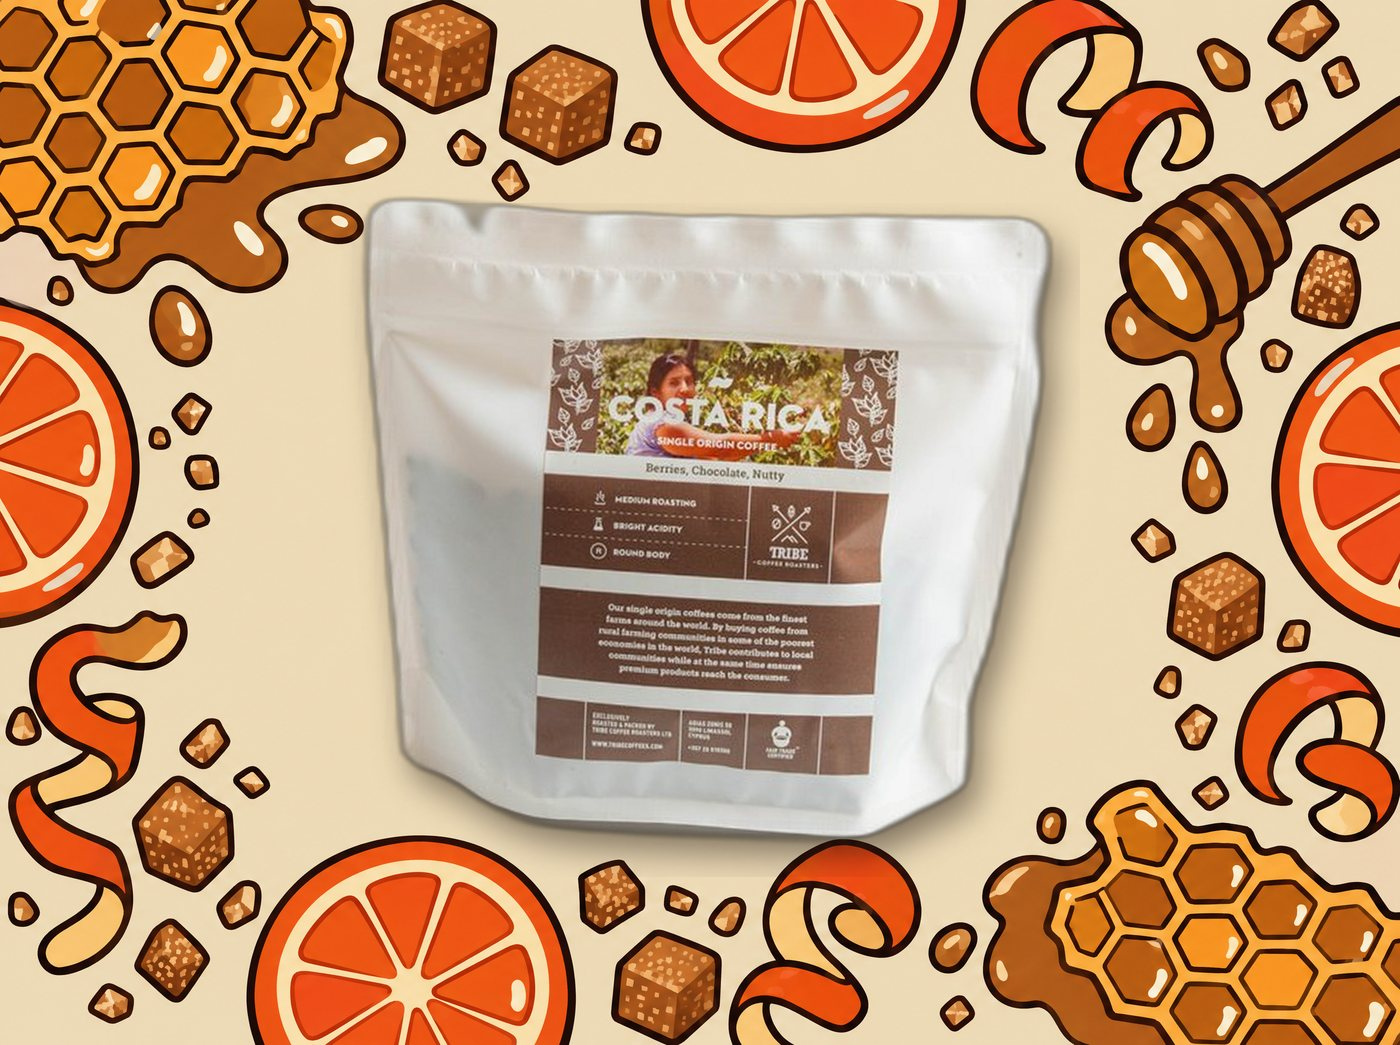
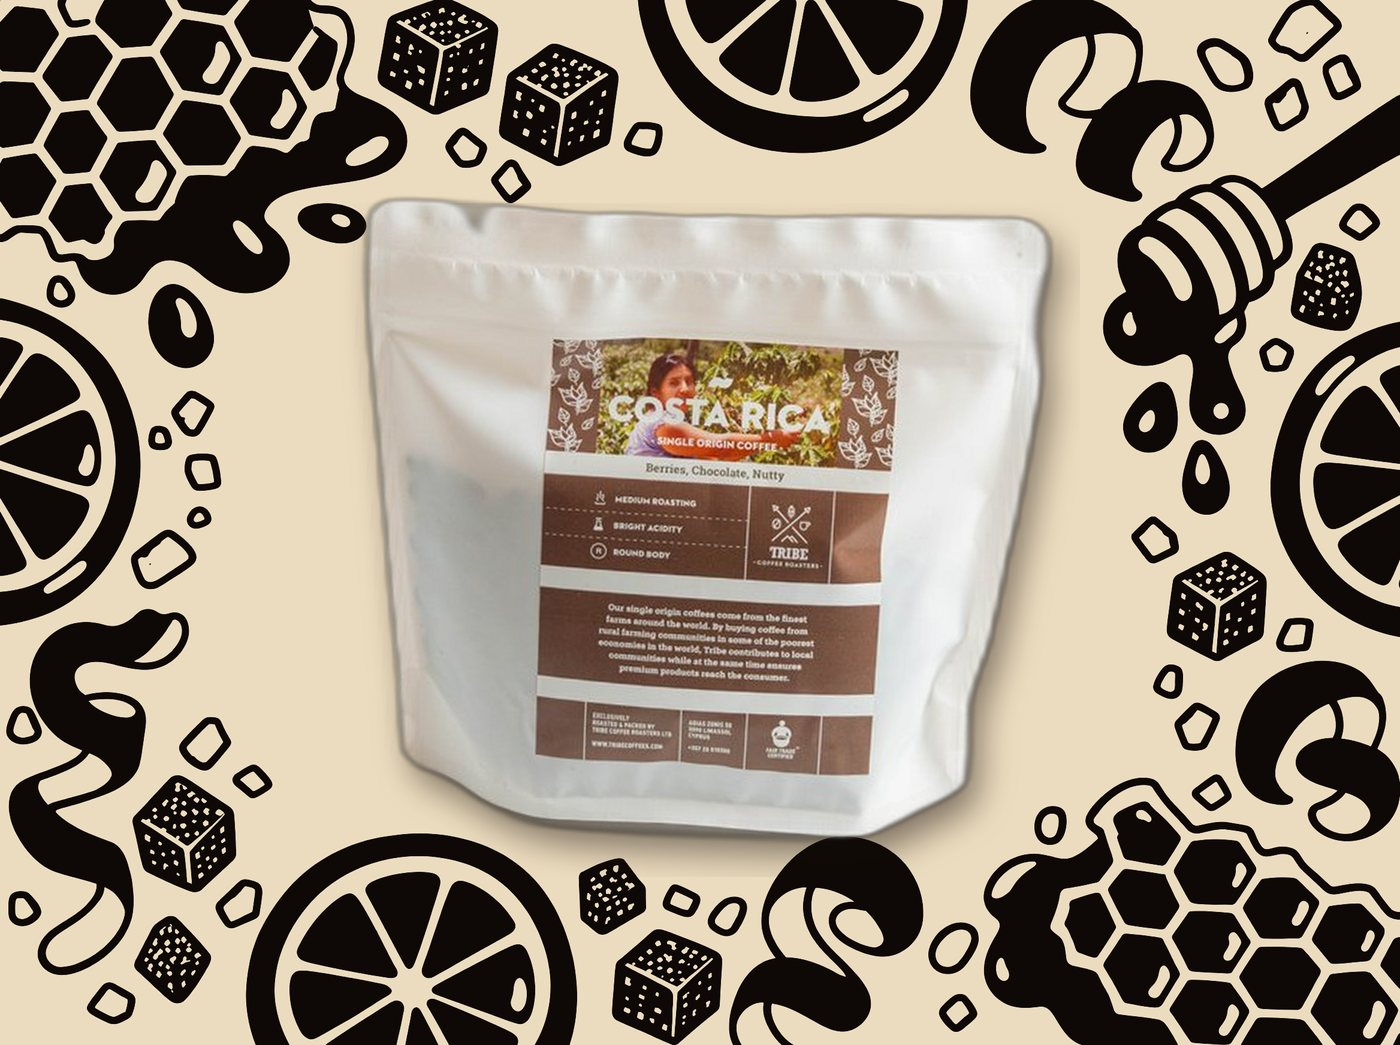
Team portraits for Our People; B&W as the only image set, switch removed; hero crew reach the bottom edge; tablet hero rebalanced; OUR STORY letters rise in

diff --git a/index.html b/index.html
@@ -35,7 +35,7 @@
         <span class="sr-only">Tribe Coffee Roasters: specialty coffee sourced from origin and roasted in Limassol</span>
       </h1>
 
-      <img class="hero__art" src="assets/illustrations-mono/hero-crew.webp" alt="Two grinning Tribe roasters: one makes a peace sign with a V60 in hand, the other hugs a bag of beans" width="1800" height="1169">
+      <img class="hero__art" src="assets/illustrations/hero-crew.webp" alt="Two grinning Tribe roasters: one makes a peace sign with a V60 in hand, the other hugs a bag of beans" width="1800" height="1132">
 
       <nav class="hero__foot" aria-label="Elsewhere">
         <a class="tag" href="story.html">Our story</a>
@@ -50,17 +50,17 @@
       <p class="eyebrow">What we do</p>
       <ol class="steps__list">
         <li class="step">
-          <img class="step__art" src="assets/illustrations-mono/source-cherries.webp" alt="Hands picking ripe coffee cherries from a branch" width="1400" height="1065" loading="lazy">
+          <img class="step__art" src="assets/illustrations/source-cherries.webp" alt="Hands picking ripe coffee cherries from a branch" width="1400" height="1065" loading="lazy">
           <h2 class="step__word">Source</h2>
           <p>We buy green coffee from <span class="marked">farms we trust<svg class="mark mark--under hand-mark" viewBox="0 0 200 16" preserveAspectRatio="none" aria-hidden="true"><path pathLength="1" d="M3 10C40 3 78 14 116 8S176 4 197 9"/></svg></span> in Brazil, Ethiopia, Costa Rica and beyond.</p>
         </li>
         <li class="step">
-          <img class="step__art" src="assets/illustrations-mono/roast-drum.webp" alt="A drum coffee roaster with fresh beans in its cooling tray" width="1172" height="1400" loading="lazy">
+          <img class="step__art" src="assets/illustrations/roast-drum.webp" alt="A drum coffee roaster with fresh beans in its cooling tray" width="1172" height="1400" loading="lazy">
           <h2 class="step__word">Roast</h2>
           <p>Small batches, roasted at our roastery in <span class="marked">Limassol<svg class="mark mark--under hand-mark" viewBox="0 0 200 16" preserveAspectRatio="none" aria-hidden="true"><path pathLength="1" d="M3 10C40 3 78 14 116 8S176 4 197 9"/></svg></span>.</p>
         </li>
         <li class="step">
-          <img class="step__art" src="assets/illustrations-mono/pour-v60.webp" alt="A kettle pouring water into a V60 over a glass server" width="959" height="1400" loading="lazy">
+          <img class="step__art" src="assets/illustrations/pour-v60.webp" alt="A kettle pouring water into a V60 over a glass server" width="959" height="1400" loading="lazy">
           <h2 class="step__word">Pour</h2>
           <p>Fresh beans for coffee shops, restaurants and offices, and <span class="marked">bags for your kitchen<svg class="mark mark--under hand-mark" viewBox="0 0 200 16" preserveAspectRatio="none" aria-hidden="true"><path pathLength="1" d="M3 10C40 3 78 14 116 8S176 4 197 9"/></svg></span>.</p>
           <p class="hand step__aside">(the fun part)</p>
@@ -81,7 +81,7 @@
           <div class="bean__panel">
             <button class="bean__open" type="button" aria-label="Open details"></button>
             <div class="bean__bar"><span>01</span><span class="bean__grip"></span><span>250g · 1kg</span></div>
-            <img class="bean__art" src="assets/products-mono/brazil.jpg" alt="Tribe Brazil coffee bag" width="1400" height="1045" loading="lazy">
+            <img class="bean__art" src="assets/products/brazil.jpg" alt="Tribe Brazil coffee bag" width="1400" height="1045" loading="lazy">
             <div class="bean__foot">
               <h3 class="bean__name">Brazil</h3>
               <svg class="hand-mark scribble" viewBox="0 0 200 16" preserveAspectRatio="none" aria-hidden="true"><path pathLength="1" d="M3 10C40 3 78 14 116 8S176 4 197 9"/></svg>
@@ -95,7 +95,7 @@
           <div class="bean__panel">
             <button class="bean__open" type="button" aria-label="Open details"></button>
             <div class="bean__bar"><span>02</span><span class="bean__grip"></span><span>250g · 1kg</span></div>
-            <img class="bean__art" src="assets/products-mono/ethiopia.jpg" alt="Tribe Ethiopia coffee bag" width="1400" height="1045" loading="lazy">
+            <img class="bean__art" src="assets/products/ethiopia.jpg" alt="Tribe Ethiopia coffee bag" width="1400" height="1045" loading="lazy">
             <div class="bean__foot">
               <h3 class="bean__name">Ethiopia</h3>
               <p class="bean__notes">Jasmine · bergamot · citrus</p>
@@ -108,7 +108,7 @@
           <div class="bean__panel">
             <button class="bean__open" type="button" aria-label="Open details"></button>
             <div class="bean__bar"><span>03</span><span class="bean__grip"></span><span>250g</span></div>
-            <img class="bean__art" src="assets/products-mono/costa-rica.jpg" alt="Tribe Costa Rica coffee bag" width="1400" height="1045" loading="lazy">
+            <img class="bean__art" src="assets/products/costa-rica.jpg" alt="Tribe Costa Rica coffee bag" width="1400" height="1045" loading="lazy">
             <div class="bean__foot">
               <h3 class="bean__name">Costa Rica</h3>
               <p class="bean__notes">Honey · brown sugar · orange</p>
@@ -121,7 +121,7 @@
           <div class="bean__panel">
             <button class="bean__open" type="button" aria-label="Open details"></button>
             <div class="bean__bar"><span>04</span><span class="bean__grip"></span><span>250g · 1kg</span></div>
-            <img class="bean__art" src="assets/products-mono/excelencia.jpg" alt="Tribe Excelencia coffee bag" width="1400" height="1045" loading="lazy">
+            <img class="bean__art" src="assets/products/excelencia.jpg" alt="Tribe Excelencia coffee bag" width="1400" height="1045" loading="lazy">
             <div class="bean__foot">
               <h3 class="bean__name">Excelencia</h3>
               <p class="bean__notes">Caramel · red fruit · cocoa</p>
@@ -147,7 +147,7 @@
           <div class="bean__panel">
             <button class="bean__open" type="button" aria-label="Open details"></button>
             <div class="bean__bar"><span>06</span><span class="bean__grip"></span><span>250g</span></div>
-            <img class="bean__art" src="assets/products-mono/decaf.jpg" alt="Tribe Decaf coffee bag" width="1400" height="1045" loading="lazy">
+            <img class="bean__art" src="assets/products/decaf.jpg" alt="Tribe Decaf coffee bag" width="1400" height="1045" loading="lazy">
             <div class="bean__foot">
               <h3 class="bean__name">Decaf</h3>
               <p class="bean__notes">All the flavour, none of the jitters</p>
@@ -170,7 +170,7 @@
         <article class="buy__card">
           <p class="tag tag--quiet">Wholesale · B2B</p>
           <h3 class="buy__title">For your café</h3>
-          <img class="buy__art" src="assets/illustrations-mono/espresso-machine.webp" alt="An orange two-group espresso machine pulling two shots" width="1400" height="1267" loading="lazy">
+          <img class="buy__art" src="assets/illustrations/espresso-machine.webp" alt="An orange two-group espresso machine pulling two shots" width="1400" height="1267" loading="lazy">
           <div class="buy__body">
             <p>We supply coffee shops, restaurants and offices with freshly roasted beans. Tell us about your place and we'll find <span class="marked">the right coffee<svg class="mark mark--under hand-mark" viewBox="0 0 200 16" preserveAspectRatio="none" aria-hidden="true"><path pathLength="1" d="M3 10C40 3 78 14 116 8S176 4 197 9"/></svg></span> for it.</p>
             <!-- TODO: real wholesale email -->
@@ -184,7 +184,7 @@
         <article class="buy__card">
           <p class="tag tag--quiet">At home · B2C</p>
           <h3 class="buy__title">For your kitchen</h3>
-          <img class="buy__art" src="assets/illustrations-mono/moka-cat.webp" alt="A cat watching a moka pot bubble on a small stove" width="1125" height="913" loading="lazy">
+          <img class="buy__art" src="assets/illustrations/moka-cat.webp" alt="A cat watching a moka pot bubble on a small stove" width="1125" height="913" loading="lazy">
           <div class="buy__body">
             <p>Our bags are on the shelf at <span class="marked">Tribe @ Top Tier Room<svg class="mark mark--under hand-mark" viewBox="0 0 200 16" preserveAspectRatio="none" aria-hidden="true"><path pathLength="1" d="M3 10C40 3 78 14 116 8S176 4 197 9"/></svg></span>, 50 Agias Zonis, Limassol. Pop in and pick up a 250g or a 1kg.</p>
             <div class="buy__actions">
@@ -241,13 +241,6 @@
     </div>
   </dialog>
   <script src="beans.js"></script>
-  <!-- Illustration test switch (remove before launch) -->
-  <div class="art-switch" role="group" aria-label="Illustration style">
-    <button type="button" data-art="mono" aria-pressed="true">B&amp;W</button>
-    <button type="button" data-art="colour" aria-pressed="false">Colour</button>
-    <button type="button" data-art="ink" aria-pressed="false">Ink</button>
-  </div>
-  <script src="art-switch.js"></script>
   <script src="motion.js"></script>
 
 </body>

diff --git a/story.html b/story.html
@@ -27,7 +27,7 @@
     <!-- STORY -->
     <section class="story-hero">
       <h1 class="display story-hero__word">Our<br>story</h1>
-      <img class="story-hero__art" src="assets/illustrations-mono/story-map.webp" alt="A map from a hillside coffee farm, across the sea by boat, to the roastery town" width="1600" height="1088">
+      <img class="story-hero__art" src="assets/illustrations/story-map.webp" alt="A map from a hillside coffee farm, across the sea by boat, to the roastery town" width="1600" height="1088">
       <p class="hand story-hero__hand">from green bean to golden roast</p>
     </section>
 
@@ -53,15 +53,15 @@
         <p class="section-head__lede">The small crew behind every bag. Come by the roastery and say hi.</p>
       </div>
 
-      <!-- TODO: real names, roles and portraits -->
+      <!-- TODO: roles, and the fourth person's name -->
       <div class="beans__grid people__grid">
         <article class="bean">
           <div class="bean__panel">
-            <div class="bean__bar"><span>01</span><span class="bean__grip"></span><span>Head roaster</span></div>
-            <div class="ph ph--light bean__art"><span class="ph__label">Portrait · founder</span></div>
+            <div class="bean__bar"><span>01</span><span class="bean__grip"></span><span>Tribe crew</span></div>
+            <img class="bean__art" src="assets/team/spyros.jpg" alt="Cartoon of Spyros with his big moustache, holding an espresso" width="1400" height="1050" loading="lazy">
             <div class="bean__foot">
-              <h3 class="bean__name">Name</h3>
-              <p class="bean__notes">Founder & head roaster</p>
+              <h3 class="bean__name">Spyros</h3>
+              <p class="bean__notes">Role to come</p>
             </div>
           </div>
           <p class="hand bean__hand">the one who roasts it all
@@ -71,8 +71,19 @@
 
         <article class="bean">
           <div class="bean__panel">
-            <div class="bean__bar"><span>02</span><span class="bean__grip"></span><span>Role</span></div>
-            <div class="ph ph--light bean__art"><span class="ph__label">Portrait · Alin</span></div>
+            <div class="bean__bar"><span>02</span><span class="bean__grip"></span><span>Tribe crew</span></div>
+            <img class="bean__art" src="assets/team/giorgos.jpg" alt="Cartoon of Giorgos holding an iced coffee" width="1400" height="1050" loading="lazy">
+            <div class="bean__foot">
+              <h3 class="bean__name">Giorgos</h3>
+              <p class="bean__notes">Role to come</p>
+            </div>
+          </div>
+        </article>
+
+        <article class="bean">
+          <div class="bean__panel">
+            <div class="bean__bar"><span>03</span><span class="bean__grip"></span><span>Tribe crew</span></div>
+            <img class="bean__art" src="assets/team/alin.jpg" alt="Cartoon of Alin in his glasses, holding a latte" width="1400" height="1050" loading="lazy">
             <div class="bean__foot">
               <h3 class="bean__name">Alin</h3>
               <p class="bean__notes">Role to come</p>
@@ -82,25 +93,14 @@
 
         <article class="bean">
           <div class="bean__panel">
-            <div class="bean__bar"><span>03</span><span class="bean__grip"></span><span>Role</span></div>
-            <div class="ph ph--light bean__art"><span class="ph__label">Portrait</span></div>
+            <div class="bean__bar"><span>04</span><span class="bean__grip"></span><span>Tribe crew</span></div>
+            <img class="bean__art" src="assets/team/name.jpg" alt="Cartoon of a tall barista holding a portafilter" width="1400" height="1050" loading="lazy">
             <div class="bean__foot">
               <h3 class="bean__name">Name</h3>
               <p class="bean__notes">Role to come</p>
             </div>
           </div>
         </article>
-
-        <a class="bean bean--you" href="https://www.instagram.com/tribecoffeeroasters/" target="_blank" rel="noopener">
-          <div class="bean__panel">
-            <div class="bean__bar"><span>04</span><span class="bean__grip"></span><span>Maybe</span></div>
-            <div class="ph ph--light bean__art"><span class="ph__label">Portrait · empty chair, a cup waiting</span></div>
-            <div class="bean__foot">
-              <h3 class="bean__name">You?</h3>
-              <p class="bean__notes">Follow along on Instagram</p>
-            </div>
-          </div>
-        </a>
       </div>
     </section>
 
@@ -127,13 +127,6 @@
     </div>
   </footer>
 
-  <!-- Illustration test switch (remove before launch) -->
-  <div class="art-switch" role="group" aria-label="Illustration style">
-    <button type="button" data-art="mono" aria-pressed="true">B&amp;W</button>
-    <button type="button" data-art="colour" aria-pressed="false">Colour</button>
-    <button type="button" data-art="ink" aria-pressed="false">Ink</button>
-  </div>
-  <script src="art-switch.js"></script>
   <script src="motion.js"></script>
 
 </body>

diff --git a/styles.css b/styles.css
@@ -307,18 +307,22 @@ a.tag:active, .btn:active {
 /* The crew stand in front of the word. Their heads start at the foot of ROASTERS and just
    tuck over it; the word block is 0.925em tall (in the word's font size), the letters end ~0.905em */
 .hero__art {
+  --art-top: calc(max(1vw, 10px) + 0.885 * min(62vw, 92svh));
   position: absolute;
   left: 50%;
-  top: calc(max(1vw, 10px) + 0.885 * min(62vw, 92svh));
-  width: min(64vw, 1000px, 105svh);
+  top: var(--art-top);
+  /* tall enough to always reach the bottom edge (the drawing is 0.63 as tall as it is wide) */
+  width: auto;
+  height: max(100% - var(--art-top), 0.63 * min(64vw, 1000px, 105svh));
   max-width: none;
-  height: auto;
   transform: translateX(-50%);
 }
-/* Portrait screens: keep the crew on the bottom edge and stack the words just above their heads */
+/* Portrait screens: the crew stand on the bottom edge and the words sit just above their heads.
+   The crew get the height left under the nav and the words (0.925em tall), so nothing is cut off. */
 @media (max-aspect-ratio: 1/1) {
-  .hero__art { top: auto; bottom: 0; width: min(140vw, 1000px); }
-  .hero__word { top: auto; bottom: calc(0.633 * min(140vw, 1000px) - 0.02em); }
+  .hero { --crew-w: min(140vw, 1000px, (100svh - 120px - 0.925 * min(62vw, 92svh)) / 0.63); }
+  .hero__art { top: auto; bottom: 0; width: var(--crew-w); height: auto; }
+  .hero__word { top: auto; bottom: calc(0.63 * var(--crew-w) - 0.02em); }
 }
 
 .hero__foot {
@@ -710,8 +714,6 @@ a.tag:active, .btn:active {
 .people__grid { grid-template-columns: repeat(4, 1fr); }
 .people__grid .bean__name { font-size: clamp(48px, 4.4vw, 76px); }
 .people__grid .bean__bar span:last-child { white-space: nowrap; }
-.bean--you { text-decoration: none; color: inherit; }
-.bean--you .bean__panel { background: var(--caramel); }
 
 /* ---------- Smaller screens ---------- */
 
@@ -725,6 +727,7 @@ a.tag:active, .btn:active {
   .nav__logo { width: 44px; }
 
   .hero__word { font-size: 60vw; }
+  .hero { --crew-w: min(140vw, (100svh - 120px - 55.5vw) / 0.63); }
 
   .steps__list { grid-template-columns: 1fr; gap: 56px; }
 
@@ -746,7 +749,8 @@ a.tag:active, .btn:active {
 @keyframes fade-in { from { opacity: 0; } }
 @keyframes art-in { from { opacity: 0; transform: translateX(-50%) translateY(48px); } }
 
-.motion .hero__word .ltr { animation: rise-in 1.1s var(--ease-out) backwards; animation-delay: calc(80ms + var(--i) * 70ms); }
+.ltr { display: inline-block; }
+.motion .hero__word .ltr, .motion .story-hero__word .ltr { animation: rise-in 1.1s var(--ease-out) backwards; animation-delay: calc(80ms + var(--i) * 70ms); }
 .motion .hero__roasters { animation: fade-up 0.9s var(--ease-out) 0.55s backwards; }
 .motion .hero__art { animation: art-in 1.2s var(--ease-out) 0.45s backwards; }
 .motion .nav > *, .motion .hero__foot > * { animation: fade-in 0.8s var(--ease-out) backwards; animation-delay: 1.05s; }
@@ -808,34 +812,6 @@ a.tag:active, .btn:active {
   .buy__card:hover { border-color: var(--caramel); }
   .foot__grid a:hover { background-size: 100% 1px; }
 }
-
-/* ---------- Illustration test switch (remove before launch) ---------- */
-
-.art-switch {
-  position: fixed;
-  left: 50%;
-  bottom: 16px;
-  z-index: 200;
-  display: flex;
-  gap: 4px;
-  padding: 4px;
-  border: 1.5px solid var(--cream-faint);
-  border-radius: 8px;
-  background: var(--canvas);
-  transform: translateX(-50%);
-}
-.art-switch button {
-  padding: 8px 12px 7px;
-  border: 0;
-  border-radius: 5px;
-  background: transparent;
-  color: var(--cream-dim);
-  font: 600 11px/1 var(--f-body);
-  letter-spacing: 0.04em;
-  text-transform: uppercase;
-  cursor: pointer;
-}
-.art-switch button[aria-pressed="true"] { background: var(--cream); color: var(--black); }
 
 @media (prefers-reduced-motion: reduce) {
   html { scroll-behavior: auto; }

diff --git a/motion.js b/motion.js
@@ -4,13 +4,22 @@
   var root = document.documentElement;
   if (!root.classList.contains('motion')) return;
 
-  // TRIBE rises in letter by letter
-  var word = document.querySelector('.hero__tribe');
-  if (word) {
-    word.innerHTML = word.textContent.split('').map(function (c, i) {
-      return '<span class="ltr" style="--i:' + i + '">' + c + '</span>';
-    }).join('');
-  }
+  // The big titles (TRIBE, OUR STORY) rise in letter by letter; line breaks stay as they are
+  document.querySelectorAll('.hero__tribe, .story-hero__word').forEach(function (word) {
+    var i = 0;
+    Array.prototype.slice.call(word.childNodes).forEach(function (node) {
+      if (node.nodeType !== 3) return;
+      var letters = document.createDocumentFragment();
+      node.textContent.split('').forEach(function (c) {
+        var span = document.createElement('span');
+        span.className = 'ltr';
+        span.style.setProperty('--i', i++);
+        span.textContent = c;
+        letters.appendChild(span);
+      });
+      word.replaceChild(letters, node);
+    });
+  });
 
   // Tag what fades up as it scrolls in; siblings matching the same selector stagger
   function tag(selector, kind) {
@@ -23,7 +32,7 @@
     });
   }
   tag('.dots', 'line');
-  tag('.eyebrow, .section-head > *, .story__grid > *, .story-hero > .display, .story-hero__art');
+  tag('.eyebrow, .section-head > *, .story__grid > *, .story-hero__art');
   tag('.steps__list > li, .beans__grid > *, .buy__grid > *');
   tag('.foot__top, .foot__grid, .foot__base');
 

diff --git a/scripts/build-artifact.py b/scripts/build-artifact.py
@@ -10,7 +10,7 @@ from pathlib import Path
 root = Path(__file__).resolve().parent.parent
 out = Path(sys.argv[1]); shutil.rmtree(out, ignore_errors=True); (out / 'assets').mkdir(parents=True)
 
-for name in ['story.html', 'motion.js', 'beans.js', 'art-switch.js']:
+for name in ['story.html', 'motion.js', 'beans.js']:
     shutil.copy(root / name, out / name)
 for item in ['tribe-mark.svg', 'coffee-leaves.jpg']:
     shutil.copy(root / 'assets' / item, out / 'assets' / item)
@@ -18,6 +18,7 @@ for folder in (root / 'assets').glob('illustrations*'):
     shutil.copytree(folder, out / 'assets' / folder.name)
 for folder in (root / 'assets').glob('products*'):
     shutil.copytree(folder, out / 'assets' / folder.name)
+shutil.copytree(root / 'assets' / 'team', out / 'assets' / 'team')
 
 page = (root / 'index.html').read_text()
 head = re.search(r'<head>(.*?)</head>', page, re.S).group(1)

diff --git a/tasks/todo.md b/tasks/todo.md
@@ -43,10 +43,11 @@ One page, dark mode, static HTML/CSS (no build). Preview: `python3 -m http.serve
 
 ## Waiting on Maria
 - [x] B&W chosen as the default (2026-10-15, "for now"); the switch stays until the choice is final
-- [ ] When final: delete the unused image folders and the switch (`art-switch.js`, `.art-switch`)
+- [x] Switch removed and B&W is the only image set (2026-10-16); Colour and Ink remain in git history
 - [ ] Our story copy (drafted from Tribe's bag, Facebook and Instagram wording) and Our people names, roles, portraits
 - [ ] Real hello@ and wholesale@ emails (no phone number on the site, by choice)
 - [ ] Bean catalogue from Tribe (Maria is asking); until then the six cards stay as they are
-- [ ] Our people portraits (should start from photos of the real people); Premium bag has no photo yet
+- [x] Our people portraits: Spyros, Giorgos, Alin (from video frames) and a fourth placeholder
+- [ ] Roles for the team, and the fourth person's name; Premium bag has no photo yet
 - [ ] Product renders: small label details to retouch before launch (Brazil: odd mark above the name; Costa Rica: swoosh above the A missing)
 - [ ] Spektra web licence before going live (files in `fonts/` stay out of git until then)
